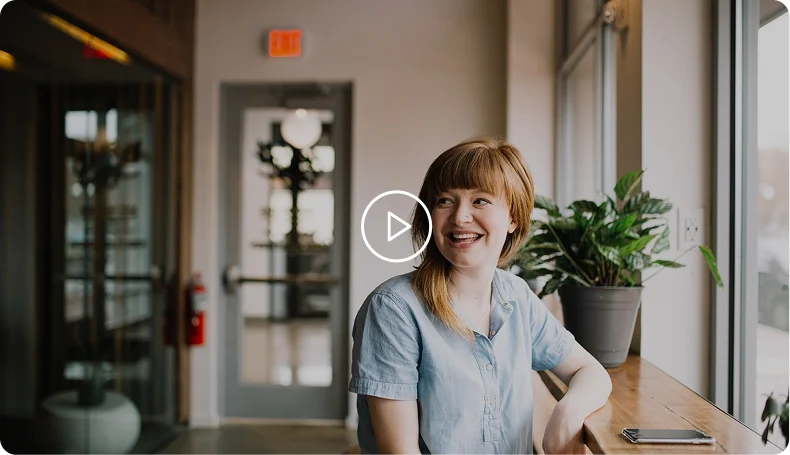
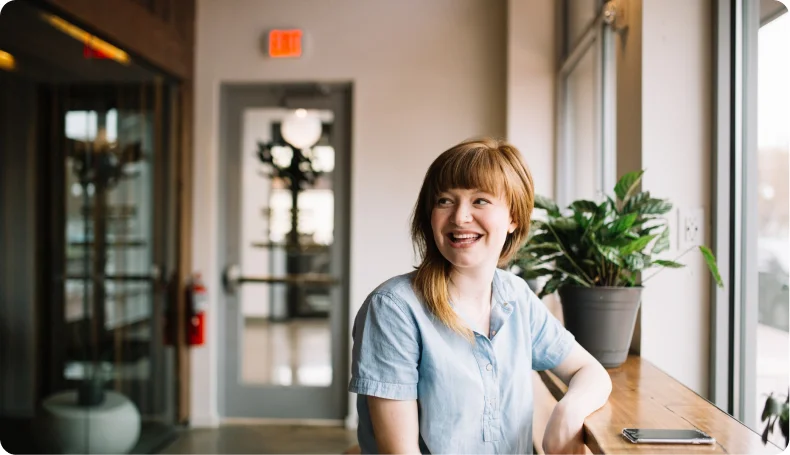
success section

diff --git a/styles/success.css b/styles/success.css
@@ -1,0 +1,92 @@
+.success {
+  background: var(--co-dark-green);
+}
+
+.success__wrapper {
+  padding: 220px 0;
+  display: flex;
+  justify-content: space-between;
+  align-items: start;
+  flex-wrap: wrap-reverse;
+  gap: 40px;
+}
+.success__content {
+  max-width: 550px;
+  display: flex;
+  flex-direction: column;
+  place-items: start;
+  gap: 20px;
+}
+.success__title {
+  color: var(--co-white);
+  font-size: 50px;
+  font-weight: 700;
+}
+.success__description {
+  color: var(--co-white);
+  font-size: 25px;
+  font-weight: 600;
+}
+.success__content .btn {
+  margin: 50px 0 0 0;
+  width: 240px;
+  height: 60px;
+}
+.success__content .btn:hover {
+  outline: 2px solid var(--co-white);
+}
+.success__cover {
+  width: 100%;
+  height: 100%;
+  object-fit: cover;
+  aspect-ratio: 158/91;
+}
+.success__content-video {
+  max-width: 790px;
+  height: 455px;
+  position: relative;
+  border-radius: 17px;
+  overflow: hidden;
+}
+
+.success__play-icon {
+  position: absolute;
+  z-index: 2;
+  width: 72px;
+  height: 73px;
+  fill: var(--co-white);
+  top: 50%;
+  left: 50%;
+  transform: translate(-50%, -50%);
+}
+.success__play-icon:hover {
+  fill: var(--co-green);
+  cursor: pointer;
+}
+.success__gradient {
+  position: absolute;
+  z-index: 1;
+  inset: 0;
+  background: linear-gradient(180deg, rgba(0, 0, 0, 0.1) 0%, rgba(0, 0, 0, 0.5))
+    center/cover no-repeat;
+}
+@media (max-width: 1370px) {
+  .success__wrapper {
+    justify-content: center;
+  }
+  .success__content {
+    text-align: center;
+    place-items: center start;
+  }
+}
+@media (max-width: 576px) {
+  .success__wrapper {
+    padding: 150px 0px;
+  }
+  .success__title {
+    font-size: 32px;
+  }
+  .success__description {
+    font-size: 20px;
+  }
+}

diff --git a/index.html b/index.html
@@ -86,6 +86,39 @@ What are you waiting for? Alivio today!</p>
 
 			</div>
 		</section>
+
+		<section class="success">
+			<div class="container">
+
+
+<div class="success__wrapper">
+	<div class="success__content">
+		<h3 class="success__title">Let's hear about Kayla's success story</h3>
+		<p class="success__description">See how well Alivio works in a real customer’s life. </p>
+		<button class="btn">Let’s get started</button>
+	</div>
+	<div class="success__content-video">
+		<img src="assets/webp/video-cover.webp" class="success__cover" alt="video cover img">
+						<svg class="success__play-icon" aria-label="play icon">
+		<use href="assets/sprites.svg#play-icon"></use>
+	</svg>
+	<div class="success__gradient">
+		
+	</div>
+	</div>
+</div>
+
+
+
+
+
+
+
+
+
+
+			</div>
+		</section>
 	</main>
 </body>
 </html>

diff --git a/index.css b/index.css
@@ -4,3 +4,4 @@
 @import url("styles/hero.css");
 @import url("styles/about.css");
 @import url("styles/card.css");
+@import url("styles/success.css");
